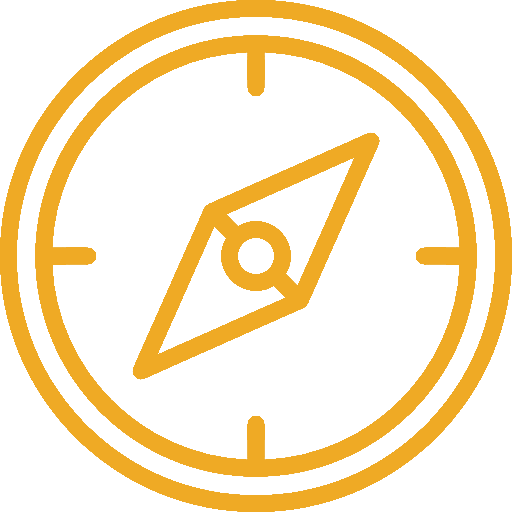
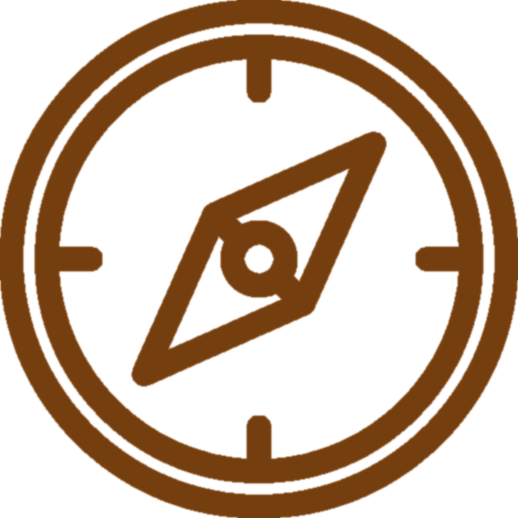
Правки отображения квестовой точки Улучшено отображение квестовых сообщений

diff --git a/app/resources/js/game/scenes/questScene.js b/app/resources/js/game/scenes/questScene.js
@@ -47,8 +47,8 @@ export default class QuestScene extends Scene {
         this.camera.followAt(player, CONSTANTS.CAMERA_FOLLOW_OBJECT_BORDER_DISTANCE);
         player.addEventListener('arrivedPosition', this.playerArrivedPosition.bind(this));
 
-        player.x = 600;
-        player.y = 600;
+        player.x = 800;
+        player.y = 700;
         this.setCurrentQuestPoint(this.createQuestPoint(1));
     }
 
@@ -72,7 +72,7 @@ export default class QuestScene extends Scene {
         }
 
         let player = this._objects.get('player');
-        player.moveTo(questPoint.x - player.width / 2, questPoint.y - player.height, 4);
+        player.moveTo(questPoint.x - player.width / 3.6, questPoint.y - player.height, 4);
         this.currentQuestPoint = questPoint;
     }
 
@@ -82,36 +82,15 @@ export default class QuestScene extends Scene {
             return;
         }
 
-        // let leftSpace = this.camera.x - player.x;
-        // let topSpace = this.camera.y - player.y;
-        // let rightSpace = this.camera.x + this.camera.width - player.x - player.width;
-        // let bottomSpace = this.camera.y + this.camera.height - player.y - player.height;
+        let leftSpace = player.x - this.camera.x;
+        let topSpace = player.y - this.camera.y;
+        let rightSpace = this.camera.x + this.camera.width - player.x - player.width;
+        let bottomSpace = this.camera.y + this.camera.height - player.y - player.height;
 
-        let msgPos = {x: 0, y: 0};
+        console.debug(leftSpace, topSpace, rightSpace, bottomSpace);
 
         let msg = new QuestMessage(this);
         this.addObject('questionMsg', msg);
-
-        // switch (Math.max(leftSpace, topSpace, rightSpace, bottomSpace)) {
-        //     case leftSpace:
-        //         msgPos.x = player.x - msg.maxWidth - CONSTANTS.PLAYER_MSG_MARGIN;
-        //         msgPos.y = player.y;
-        //         break;
-        //     case topSpace:
-        //         msgPos.x = player.x;
-        //         msgPos.y = player.y - msg.maxHeight - CONSTANTS.PLAYER_MSG_MARGIN;
-        //         break;
-        //     case rightSpace:
-        //         msgPos.x = player.x + player.width + msg.maxWidth + CONSTANTS.PLAYER_MSG_MARGIN;
-        //         msgPos.y = player.y;
-        //         break;
-        //     case bottomSpace:
-        //         msgPos.x = player.x;
-        //         msgPos.y = player.y + player.height + msg.maxHeight + CONSTANTS.PLAYER_MSG_MARGIN;
-        // }
-
-        msg.x = player.x + player.width + CONSTANTS.PLAYER_MSG_MARGIN;
-        msg.y = player.y;
 
         let data = this.currentQuestPoint.data;
         msg.setText(data.message);
@@ -121,10 +100,31 @@ export default class QuestScene extends Scene {
                 text: elm.text,
                 fn: () => {
                     msg.hide();
+                    msg.remove();
+                    this.removeObject('questionMsg');
                     this.takingDecision(elm.id);
                 }
             })
         });
+
+        switch (Math.max(leftSpace, topSpace, rightSpace, bottomSpace)) {
+            case leftSpace:
+                console.debug(msg.width, msg._element.offsetWidth);
+                msg.x = player.x - msg.width - CONSTANTS.PLAYER_MSG_MARGIN;
+                msg.y = player.y;
+                break;
+            case topSpace:
+                msg.x = player.x;
+                msg.y = player.y - msg.maxHeight - CONSTANTS.PLAYER_MSG_MARGIN;
+                break;
+            case rightSpace:
+                msg.x = player.x + player.width + CONSTANTS.PLAYER_MSG_MARGIN;
+                msg.y = player.y;
+                break;
+            case bottomSpace:
+                msg.x = player.x;
+                msg.y = player.y + player.height + CONSTANTS.PLAYER_MSG_MARGIN;
+        }
 
         msg.show();
     }

diff --git a/app/resources/js/game/objects/questPoint.js b/app/resources/js/game/objects/questPoint.js
@@ -7,10 +7,15 @@ export default class QuestPoint extends DisplayObject {
         this.data = data;
         this.message = null;
 
-        this.radius = 50;
+        this.radius = 100;
 
         this._x = data.mapPoint.x - this._width / 2;
         this._y = data.mapPoint.y - this._height / 2;
+
+        this._image = this.scene.resourceManager.resource('questPoint');
+        if (typeof this._image == 'undefined') {
+            console.error("Для отображения квестовой точки требуется ресурс questPoint");
+        }
     }
 
     get radius() {
@@ -39,11 +44,16 @@ export default class QuestPoint extends DisplayObject {
         super.render(time);
 
         let pos = this.canvasPos();
-        let context = this.scene.game.context;
 
-        context.beginPath();
-        context.fillStyle = "red";
-        context.arc(pos.x + this.radius, pos.y + this.radius, this.radius, 0, 2 * Math.PI, true);
-        context.fill();
+        this.scene.game.context.filter = 'drop-shadow(2px 2px 3px rgba(0, 0, 0, 0.8))';
+        this.scene.game.context.drawImage(
+            this._image,
+            pos.x,
+            pos.y,
+            this.width,
+            this.height);
+        this.scene.game.context.filter = 'none';
+
+        super.render(time);
     }
 }

diff --git a/app/resources/js/game/objects/questMessage.js b/app/resources/js/game/objects/questMessage.js
@@ -4,14 +4,25 @@ export default class QuestMessage extends DisplayObject {
     constructor(scene) {
         super(scene)
 
-        this.maxWidth = 300;
+        this.maxWidth = 400;
         this.maxHeight = 400;
 
         this._element = document.createElement('div');
         this._element.setAttribute('class', 'popup_message');
         document.body.appendChild(this._element);
 
+        this._element.style.maxWidth = `${this.maxWidth}px`;
+        this._element.style.maxHeight = `${this.maxHeight}px`;
+
         this.isVisible = false;
+    }
+
+    get width() {
+        return this._element.offsetWidth;
+    }
+
+    get height() {
+        return this._element.offsetHeight;
     }
 
     render(time) {
@@ -46,14 +57,16 @@ export default class QuestMessage extends DisplayObject {
     }
 
     show() {
-        setTimeout(() => {
-            this.isVisible = true;
-            this._element.style.opacity = '1';
-        }, 20)
+        this.isVisible = true;
+        this._element.style.opacity = '1';
     }
 
     hide() {
         this.isVisible = false;
         this._element.style.opacity = '0';
+    }
+
+    remove() {
+        this._element.remove();
     }
 }

diff --git a/app/resources/css/map.css b/app/resources/css/map.css
@@ -13,8 +13,10 @@ body {
     position: absolute;
     background: rgba(0, 0, 0, 0.9);
     color: #fff;
-    border-radius: 10px;
-    min-width: 350px;
+    border-radius: 7px;
+
+    min-width: 100px;
+    min-height: 60px;
 
     transition: opacity 1s;
     opacity: 0;
@@ -22,8 +24,9 @@ body {
 }
 
 .popup_message__title {
-    padding: 10px;
     border-bottom: solid 1px rgb(70, 70, 70);
+    padding: 15px 10px 17px;
+    margin: 0;
 }
 
 .popup_message__actions {
@@ -44,9 +47,9 @@ body {
 }
 
 .popup_message__actions span:hover {
-    background-color: #fdf7c5;
+    background-color: #e1b766;
     color: #000;
-    box-shadow: 0 0 10px rgba(255, 255, 255, 0.6);
+    box-shadow: 0 0 7px rgba(225, 183, 102, 0.6);
     cursor: pointer;
     filter: blur(0px)!important;
     transition: filter 0.2s ease-out;

diff --git a/app/resources/js/game/scene.js b/app/resources/js/game/scene.js
@@ -47,6 +47,10 @@ export default class Scene {
         this._objects.set(name, object);
     }
 
+    removeObject(name) {
+        this._objects.delete(name);
+    }
+
     get isLoad() {
         return this._isLoad;
     }

diff --git a/app/resources/js/game/constants.js b/app/resources/js/game/constants.js
@@ -1,6 +1,6 @@
 const CONSTANTS = {
-    PLAYER_MSG_MARGIN: 20,
-    CAMERA_FOLLOW_OBJECT_BORDER_DISTANCE: 30
+    PLAYER_MSG_MARGIN: 10,
+    CAMERA_FOLLOW_OBJECT_BORDER_DISTANCE: 70
 };
 
 export default CONSTANTS;
